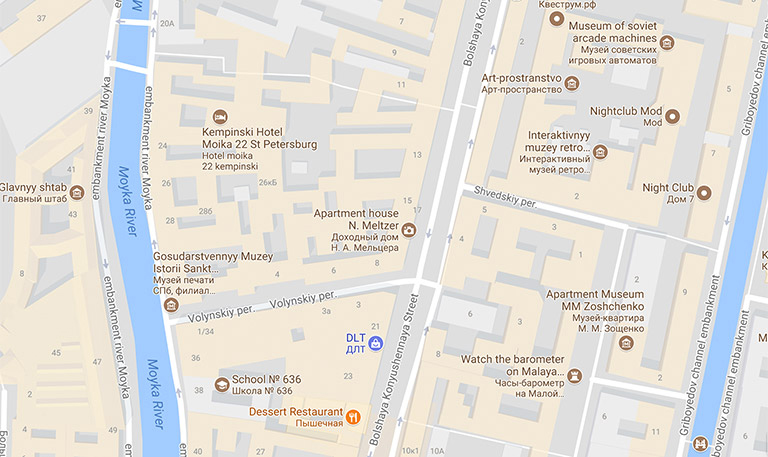
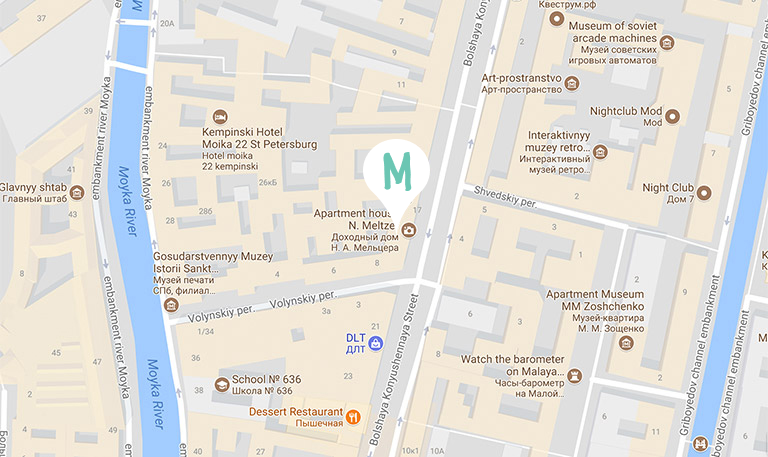
э

Changed region(s): [[0.4688, 0.3063, 0.5625, 0.4902]]

diff --git a/source/index.html b/source/index.html
@@ -375,8 +375,18 @@
               </li>
             </ul>
           </div>
-          <iframe src="https://www.google.com/maps/embed?pb=!1m18!1m12!1m3!1d706.6132732513884!2d30.322197290665613!3d59.93871048347301!2m3!1f0!2f0!3f0!3m2!1i1024!2i768!4f13.1!3m3!1m2!1s0x4696310fca145cc1%3A0x42b32648d8238007!2z0JHQvtC70YzRiNCw0Y8g0JrQvtC90Y7RiNC10L3QvdCw0Y8g0YPQuy4sIDE5LzgsINCh0LDQvdC60YIt0J_QtdGC0LXRgNCx0YPRgNCzLCAxOTExODY!5e0!3m2!1sru!2sru!4v1602604344933!5m2!1sru!2sru"
-          width="320" height="454" style="border:0;" allowfullscreen="" aria-hidden="false" tabindex="0" title="Офис компании по адресу ул. Большая Конюшенная 19/8, Санкт-Петербург"></iframe>
+          <div class="contacts__map">
+            <picture class="contacts__map-picture">
+              <source type="image/webp" media="(min-width: 1150px)" srcset= "img/map-desktop.webp 1x, img/map-desktop@2x.webp 2x">
+              <source type="image/webp" media="(min-width: 768px)" srcset= "img/map-tablet.webp 1x, img/map-tablet@2x.webp 2x">
+              <source type="image/webp" srcset= "img/map-mobile.webp 1x, img/map-mobile@2x.webp 2x">
+              <source media="(min-width: 1150px)" srcset="img/map-desktop.png 1x, img/map-desktop@2x.png 2x">
+              <source media="(min-width: 768px)" srcset="img/map-tablet.png 1x, img/map-tablet@2x.png 2x">
+              <img class="catalog__img" src="img/map-mobile.png" srcset="img/map-mobile@2x.png 2x" alt="Наш адрес">
+            </picture>
+            <iframe src="https://www.google.com/maps/embed?pb=!1m18!1m12!1m3!1d706.6132732513884!2d30.322197290665613!3d59.93871048347301!2m3!1f0!2f0!3f0!3m2!1i1024!2i768!4f13.1!3m3!1m2!1s0x4696310fca145cc1%3A0x42b32648d8238007!2z0JHQvtC70YzRiNCw0Y8g0JrQvtC90Y7RiNC10L3QvdCw0Y8g0YPQuy4sIDE5LzgsINCh0LDQvdC60YIt0J_QtdGC0LXRgNCx0YPRgNCzLCAxOTExODY!5e0!3m2!1sru!2sru!4v1602604344933!5m2!1sru!2sru"
+            width="320" height="454" style="border:0;" allowfullscreen="" aria-hidden="false" tabindex="0" title="Офис компании по адресу ул. Большая Конюшенная 19/8, Санкт-Петербург"></iframe>
+          </div>
           <a class="contacts__write-us border-button" href="#">Напишите нам</a>
         </section>
       </div>

diff --git a/source/sass/blocks/contacts.scss b/source/sass/blocks/contacts.scss
@@ -59,12 +59,25 @@
   }
 }
 
-.contacts iframe {
+.contacts__map {
+  position: relative;
   display: block;
   margin: 0 auto;
   margin-top: 60px;
   margin-bottom: 44px;
+  width: $mobile-width;
+}
+
+.contacts__map iframe {
   width: 100%;
+}
+
+.contacts__map-picture {
+  position: absolute;
+  top: 50%;
+  left: 50%;
+  transform: translate(-50%, -50%);
+  z-index: -1;
 }
 
 .contacts__write-us {
@@ -79,12 +92,6 @@
   .contacts {
     padding-top: 68px;
     padding-bottom: 57px;
-  }
-
-  .contacts iframe {
-    height: 457px;
-    margin-top: 50px;
-    margin-bottom: 53px;
   }
 
   .contacts__title {
@@ -130,6 +137,16 @@
     width: 230px;
     font-size: 17px;
   }
+
+  .contacts__map {
+    margin: 0 auto;
+    width: $tablet-width;
+  }
+
+  .contacts__map iframe {
+    margin-top: 50px;
+    margin-bottom: 53px;
+  }
 }
 
 @media (min-width: $desktop-width) {
@@ -172,12 +189,16 @@
     }
   }
 
-  .contacts iframe {
+  .contacts__map {
     margin: 0;
     width: 527px;
-    height: 100%;
     grid-column: 3/4;
     grid-row: 1/4;
+  }
+
+  .contacts__map iframe {
+    margin-top: 0;
+    margin-bottom: 0;
   }
 
   .contacts__write-us {
